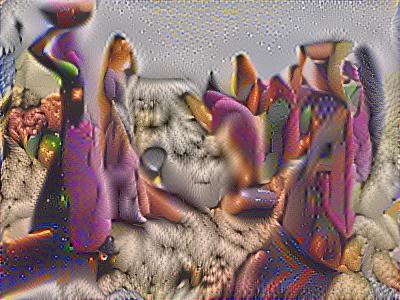
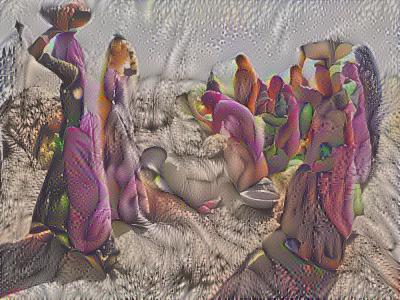
max-pool
max-pool

diff --git a/vgg19-style-transfer/model.py b/vgg19-style-transfer/model.py
@@ -98,7 +98,8 @@ def load_vgg_model(path):
     b = tf.constant(np.reshape(b, (b.size)))
     L2 = tf.nn.conv2d(L1, filter=W, strides=[1, 1, 1, 1], padding='SAME') + b
     L2 = graph['conv1_2']  = tf.nn.relu(L2)
-    L2 = graph['avgpool1'] = tf.nn.avg_pool(L2, ksize=[1, 2, 2, 1], strides=[1, 2, 2, 1], padding='SAME')
+    # L2 = graph['avgpool1'] = tf.nn.avg_pool(L2, ksize=[1, 2, 2, 1], strides=[1, 2, 2, 1], padding='SAME')
+    L2 = graph['maxpool1'] = tf.nn.max_pool(L2, ksize=[1, 2, 2, 1], strides=[1, 2, 2, 1], padding='SAME')
 
     W, b = _weights(5, 'conv2_1')
     W = tf.constant(W)
@@ -111,7 +112,8 @@ def load_vgg_model(path):
     b = tf.constant(np.reshape(b, (b.size)))
     L4 = tf.nn.conv2d(L3, filter=W, strides=[1, 1, 1, 1], padding='SAME') + b
     L4 = graph['conv2_2']  = tf.nn.relu(L4)
-    L4 = graph['avgpool2'] =  tf.nn.avg_pool(L4, ksize=[1, 2, 2, 1], strides=[1, 2, 2, 1], padding='SAME')
+    # L4 = graph['avgpool2'] =  tf.nn.avg_pool(L4, ksize=[1, 2, 2, 1], strides=[1, 2, 2, 1], padding='SAME')
+    L4 = graph['maxpool2'] =  tf.nn.max_pool(L4, ksize=[1, 2, 2, 1], strides=[1, 2, 2, 1], padding='SAME')
 
     W, b = _weights(10, 'conv3_1')
     W = tf.constant(W)
@@ -136,7 +138,8 @@ def load_vgg_model(path):
     b = tf.constant(np.reshape(b, (b.size)))
     L8 = tf.nn.conv2d(L7, filter=W, strides=[1, 1, 1, 1], padding='SAME') + b
     L8 = graph['conv3_4']  = tf.nn.relu(L8)
-    L8 = graph['avgpool3'] =  tf.nn.avg_pool(L8, ksize=[1, 2, 2, 1], strides=[1, 2, 2, 1], padding='SAME')
+    # L8 = graph['avgpool3'] =  tf.nn.avg_pool(L8, ksize=[1, 2, 2, 1], strides=[1, 2, 2, 1], padding='SAME')
+    L8 = graph['maxpool3'] =  tf.nn.max_pool(L8, ksize=[1, 2, 2, 1], strides=[1, 2, 2, 1], padding='SAME')
 
     W, b = _weights(19, 'conv4_1')
     W = tf.constant(W)
@@ -161,7 +164,8 @@ def load_vgg_model(path):
     b = tf.constant(np.reshape(b, (b.size)))
     L12 = tf.nn.conv2d(L11, filter=W, strides=[1, 1, 1, 1], padding='SAME') + b
     L12 = graph['conv4_4']  = tf.nn.relu(L12)
-    L12 = graph['avgpool4'] =  tf.nn.avg_pool(L12, ksize=[1, 2, 2, 1], strides=[1, 2, 2, 1], padding='SAME')
+    # L12 = graph['avgpool4'] =  tf.nn.avg_pool(L12, ksize=[1, 2, 2, 1], strides=[1, 2, 2, 1], padding='SAME')
+    L12 = graph['maxpool4'] =  tf.nn.max_pool(L12, ksize=[1, 2, 2, 1], strides=[1, 2, 2, 1], padding='SAME')
 
     W, b = _weights(28, 'conv5_1')
     W = tf.constant(W)
@@ -186,7 +190,8 @@ def load_vgg_model(path):
     b = tf.constant(np.reshape(b, (b.size)))
     L16 = tf.nn.conv2d(L15, filter=W, strides=[1, 1, 1, 1], padding='SAME') + b
     L16 = graph['conv5_4']  = tf.nn.relu(L16)
-    L16 = graph['avgpool5'] =  tf.nn.avg_pool(L16, ksize=[1, 2, 2, 1], strides=[1, 2, 2, 1], padding='SAME')
+    # L16 = graph['avgpool5'] =  tf.nn.avg_pool(L16, ksize=[1, 2, 2, 1], strides=[1, 2, 2, 1], padding='SAME')
+    L16 = graph['maxpool5'] =  tf.nn.max_pool(L16, ksize=[1, 2, 2, 1], strides=[1, 2, 2, 1], padding='SAME')
 
     # L17 = FC Layer - We don't need it here [FC-4096]
     # L18 = FC Layer - We don't need it here [FC-4096]
